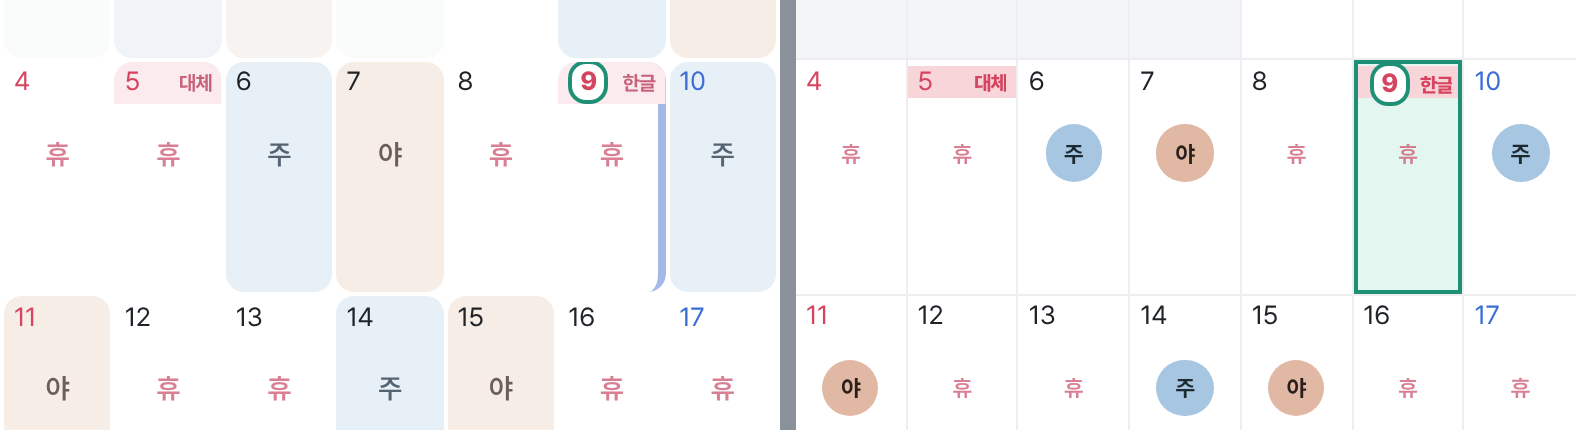
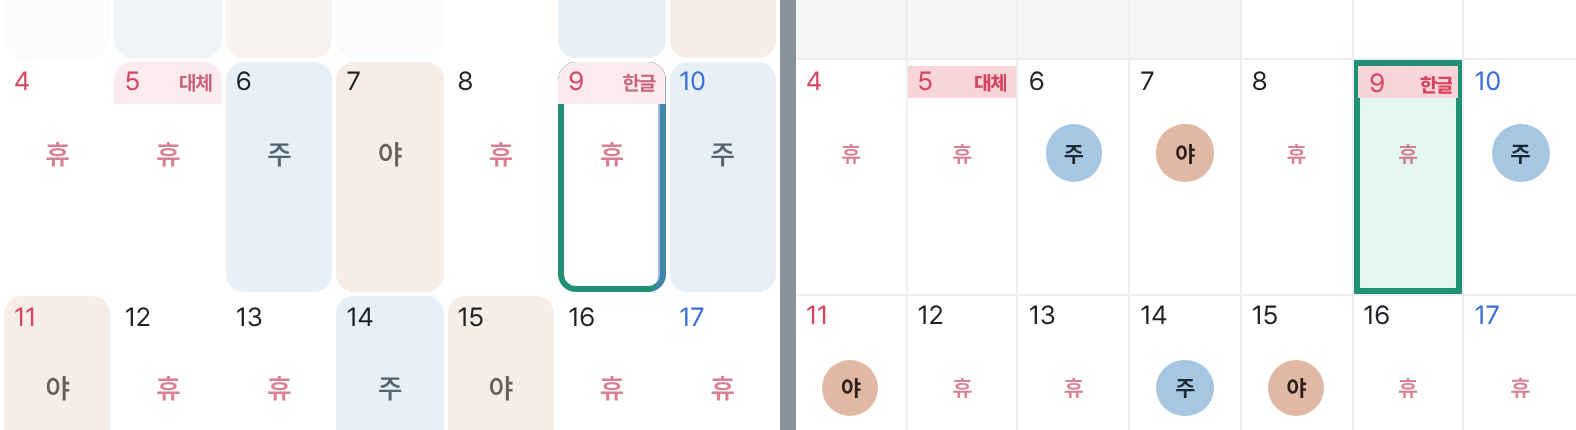
design: 오늘 표시 = 칸 전체 테두리 (숫자 그대로)
Claude-Session: https://claude.ai/code/session_01JTBnEvptp151JygSjZNCTX

Changed region(s): [[0.342, 0.1512, 0.4353, 0.6953], [0.8706, 0.1512, 0.9016, 0.2419], [0.8706, 0.6651, 0.9327, 0.6953]]

diff --git a/docs/TODO.md b/docs/TODO.md
@@ -2480,7 +2480,7 @@
 13. 달력 화면은 크게 안 바꿈 (시안 design/calendar/compare.png): 글꼴 Pretendard 따라감 · 위 머리 흰 바탕 · ‹ › 크고 진하게 · 요일 줄 흰 바탕 작고 회색(일 빨강 · 토 파랑) · 메모 띠 모서리 4.
 14. 달력 오늘 표시 더 잘 보이게 (사용자 2026-11-15): 지금은 앱 켤 때 한 번 0.82초 · 옅게(선 최대 .47 · 꼬리 .2) 돌아서 눈에 안 띔.
   ① 빛 두 바퀴 (GLOW_MS 1600 쯤 · 두 바퀴 돌고 사라짐) · 선 굵게 · 진하게(선 .8 · 꼬리 .5).
-  ② 늘 보이는 표시 하나 더: 오늘 날짜 숫자에 오늘 색 테두리(속은 흰색 · 숫자 색은 그대로 → 공휴일 빨강 · 토요일 파랑이 안 가려짐 · 사용자 지적) · 숫자 굵게. 칸 채우기 · 동그라미 둘 다. (시안 design/calendar/today_crop.png · 한글날을 오늘로 둔 예)
+  ② 늘 보이는 표시: 숫자는 건드리지 않음(알약 · 테두리 X — 사용자: 휴일 색 가려짐). 대신 오늘 칸 전체를 오늘 색 굵은 테두리(3px)로 · 칸 채우기 모양은 지금 오른쪽 띠 + 테두리 · 공휴일 이름 띠에 위 테두리가 가려지지 않게. (시안 design/calendar/today_crop.png)
   ③ 앱을 다시 열 때(다른 앱 갔다 돌아올 때 · 하루 넘었을 때)도 한 번 돌기.
 - 나눠 만들기: 1차 = 공통 모양(글꼴 · 카드 · 줄 · 스위치 · 파랑) + 알람 설정 + 근무 패턴 + AI 티 · 코드 점검 고칠 거리 / 2차 = 나머지 설정 화면 · 가족 연결 · 가족 목록 · 스티커 · 이미지 공유 · 설명문 줄이기.
 - (나중에 생각) 가족 목록 · 가족 연결 두 화면 합치기.
